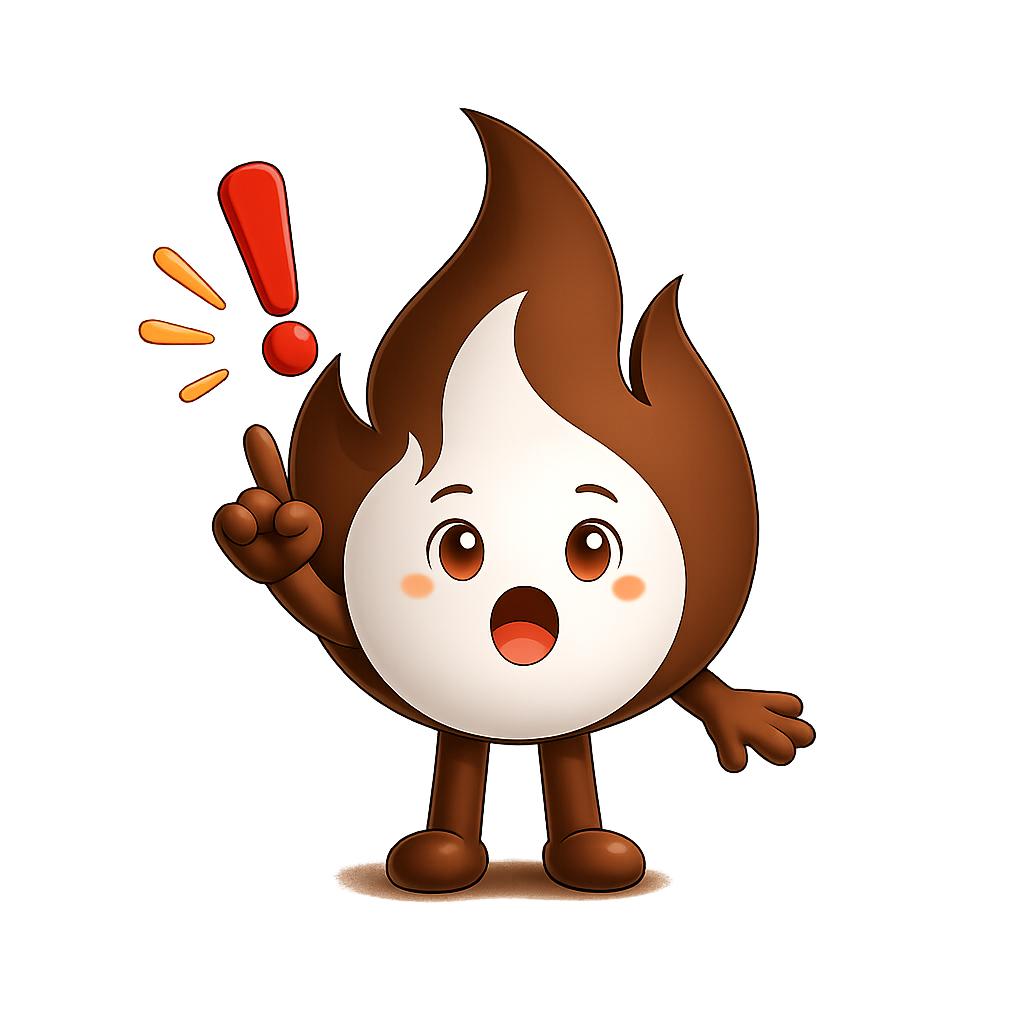
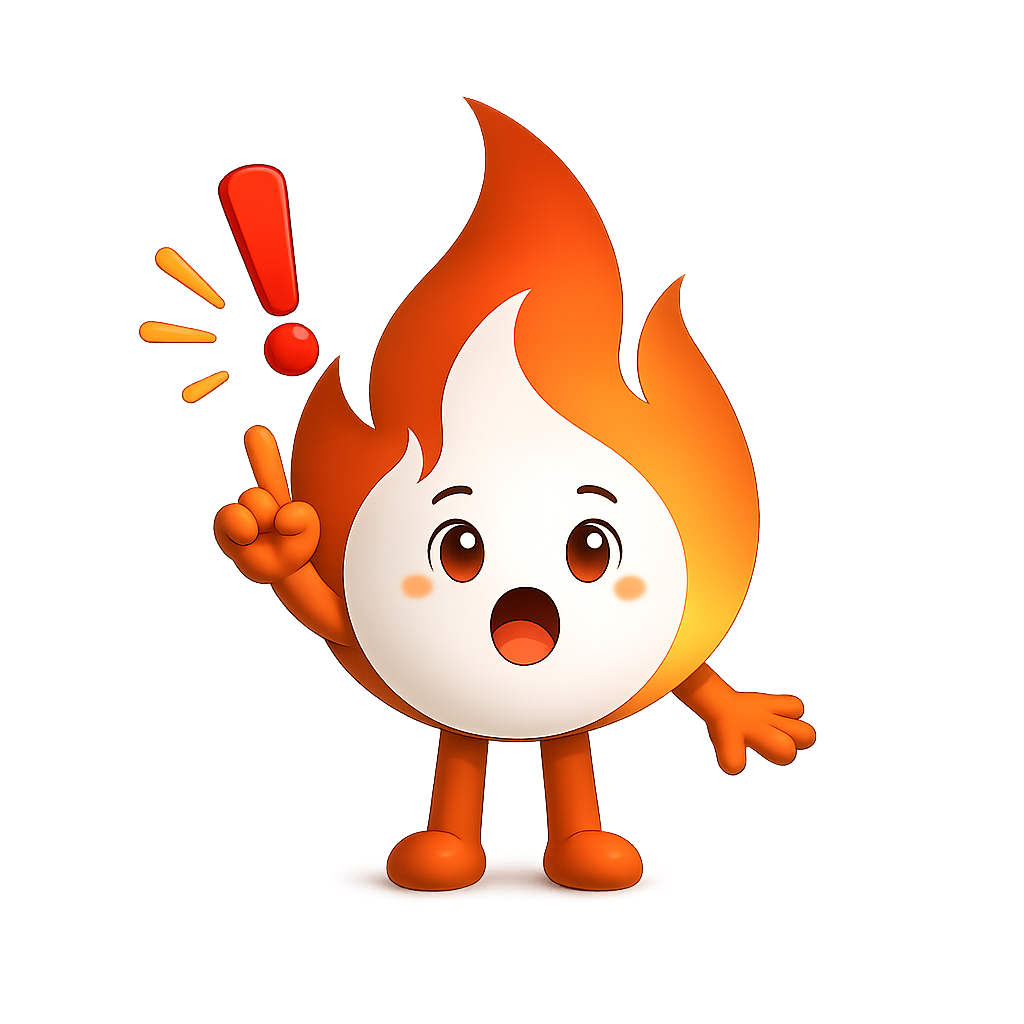
enhanced ui

Changed region(s): [[0.125, 0.0938, 0.8125, 0.9062], [0.5625, 0.4688, 0.625, 0.5938], [0.4688, 0.5938, 0.5625, 0.6562]]

diff --git a/components/feature/chat/ChatMessageMedia.tsx b/components/feature/chat/ChatMessageMedia.tsx
@@ -13,13 +13,12 @@ import { ChatImageLightbox } from "./ChatImageLightbox";
 
 type Props = {
   message: ChatMessage;
-  fromMe: boolean;
 };
 
 const MEDIA_WIDTH = 220;
 const MEDIA_HEIGHT = 160;
 
-export function ChatMessageMedia({ message, fromMe }: Props) {
+export function ChatMessageMedia({ message }: Props) {
   if (message.kind === "image" && message.mediaUrl) {
     return (
       <ChatImageMessage
@@ -38,7 +37,6 @@ export function ChatMessageMedia({ message, fromMe }: Props) {
       <ChatAudioMessage
         uri={message.mediaUrl}
         durationMs={message.mediaDurationMs}
-        fromMe={fromMe}
       />
     );
   }
@@ -151,11 +149,9 @@ function ChatVideoMessage({ uri, durationMs }: { uri: string; durationMs?: numbe
 function ChatAudioMessage({
   uri,
   durationMs,
-  fromMe,
 }: {
   uri: string;
   durationMs?: number;
-  fromMe: boolean;
 }) {
   const { colors } = useTheme();
   const soundRef = useRef<Audio.Sound | null>(null);
@@ -222,12 +218,12 @@ function ChatAudioMessage({
     >
       <View
         className="h-9 w-9 items-center justify-center rounded-full"
-        style={{ backgroundColor: fromMe ? "rgba(255,255,255,0.2)" : `${colors.primary}20` }}
+        style={{ backgroundColor: `${colors.primary}20` }}
       >
         <Ionicons
           name={playing ? "pause" : "play"}
           size={18}
-          color={fromMe ? colors.white : colors.primary}
+          color={colors.primary}
         />
       </View>
       <View className="flex-1 flex-row items-center gap-1">
@@ -238,15 +234,13 @@ function ChatAudioMessage({
             style={{
               width: 3,
               height: 8 + (i % 3) * 6,
-              backgroundColor: fromMe ? "rgba(255,255,255,0.85)" : colors.primary,
+              backgroundColor: colors.primary,
               opacity: playing ? 1 : 0.65,
             }}
           />
         ))}
       </View>
-      <Text
-        className={`text-xs font-medium ${fromMe ? "text-white/90" : "text-muted-foreground dark:text-d-muted"}`}
-      >
+      <Text className="text-xs font-medium text-muted-foreground dark:text-d-muted">
         {label}
       </Text>
     </Pressable>

diff --git a/components/feature/profile/ThemeSwitcher/ThemeSwitcher.tsx b/components/feature/profile/ThemeSwitcher/ThemeSwitcher.tsx
@@ -9,6 +9,7 @@ import Animated, {
 } from "react-native-reanimated";
 
 import { Card } from "@/components/ui/Card";
+import { BRAND_ORANGE, darkColors, lightColors } from "@/constants/theme";
 import { type ThemePreference, useTheme } from "@/context/ThemeContext";
 
 const OPTIONS: {
@@ -22,19 +23,34 @@ const OPTIONS: {
     id: "light",
     label: "Light",
     icon: "sunny",
-    preview: { bg: "#FFFFFF", card: "#F8F5F2", accent: "#795548", dot: "#2A1A12" },
+    preview: {
+      bg: lightColors.background,
+      card: lightColors.section,
+      accent: BRAND_ORANGE,
+      dot: lightColors.foreground,
+    },
   },
   {
     id: "dark",
     label: "Dark",
     icon: "moon",
-    preview: { bg: "#100D0B", card: "#1B1613", accent: "#E0825A", dot: "#F5EFE9" },
+    preview: {
+      bg: darkColors.background,
+      card: darkColors.section,
+      accent: BRAND_ORANGE,
+      dot: darkColors.foreground,
+    },
   },
   {
     id: "system",
     label: "Auto",
     icon: "phone-portrait",
-    preview: { bg: "#FFFFFF", card: "#100D0B", accent: "#E0825A", dot: "#795548" },
+    preview: {
+      bg: lightColors.background,
+      card: darkColors.background,
+      accent: BRAND_ORANGE,
+      dot: lightColors.foreground,
+    },
   },
 ];
 
@@ -111,7 +127,7 @@ function ThemeOption({ active, onPress, label, icon, preview, splitPreview }: Op
           {splitPreview ? (
             <View className="h-full w-full flex-row">
               <View style={{ flex: 1, backgroundColor: "#FFFFFF" }} />
-              <View style={{ flex: 1, backgroundColor: "#100D0B" }} />
+              <View style={{ flex: 1, backgroundColor: darkColors.background }} />
             </View>
           ) : (
             <View className="h-full w-full p-1.5">
@@ -137,7 +153,7 @@ function ThemeOption({ active, onPress, label, icon, preview, splitPreview }: Op
           <Ionicons
             name={icon}
             size={14}
-            color={active ? "#E0825A" : undefined}
+            color={active ? BRAND_ORANGE : undefined}
           />
           <Text
             className={[

diff --git a/components/feature/chat/MessageBubble.tsx b/components/feature/chat/MessageBubble.tsx
@@ -41,30 +41,24 @@ export function MessageBubble({
       <View
         className={[
           hasMedia ? "max-w-[82%] overflow-hidden p-1.5" : "max-w-[78%] px-4 py-2.5",
-          "rounded-3xl",
-          fromMe
-            ? "bg-primary rounded-tr-md"
-            : "bg-section rounded-tl-md dark:bg-d-surface",
+          "rounded-3xl bg-section dark:bg-d-surface",
+          fromMe ? "rounded-tr-md" : "rounded-tl-md",
         ].join(" ")}
       >
-        {hasMedia ? <ChatMessageMedia message={message} fromMe={fromMe} /> : null}
+        {hasMedia ? <ChatMessageMedia message={message} /> : null}
 
         {message.text ? (
           <Text
-            className={`text-base leading-5 ${
+            className={`text-base leading-5 text-foreground dark:text-d-text ${
               hasMedia ? "px-2 pb-1 pt-2" : ""
-            } ${fromMe ? "text-white" : "text-foreground dark:text-d-text"}`}
+            }`}
           >
             {message.text}
           </Text>
         ) : null}
 
         {!hasMedia && !message.text ? (
-          <Text
-            className={`text-base leading-5 ${
-              fromMe ? "text-white" : "text-foreground dark:text-d-text"
-            }`}
-          >
+          <Text className="text-base leading-5 text-foreground dark:text-d-text">
             {message.kind === "image"
               ? "📷 Photo"
               : message.kind === "video"
@@ -75,8 +69,8 @@ export function MessageBubble({
 
         {fromMe && status ? (
           <View className={`flex-row items-center justify-end gap-1 ${hasMedia ? "px-2 pb-1" : "mt-1"}`}>
-            <Text className="text-[10px] text-white/70">{time}</Text>
-            <MessageReadTicks status={status} onPrimary />
+            <Text className="text-[10px] text-muted-foreground dark:text-d-muted">{time}</Text>
+            <MessageReadTicks status={status} />
           </View>
         ) : null}
       </View>

diff --git a/tailwind.config.js b/tailwind.config.js
@@ -10,18 +10,17 @@ module.exports = {
     extend: {
       colors: {
         background: "#FFFFFF",
-        primary: "#795548",
-        "primary-dark": "#3E2723",
-        "primary-light": "#A1887F",
-        secondary: "#BC9C88",
-        foreground: "#2A1A12",
-        "muted-foreground": "#7A6E66",
-        /** Warm coral accent — replaces green for win / unlocked states */
-        accent: "#E0825A",
-        "accent-soft": "#F4D6C5",
+        primary: "#FF7A00",
+        "primary-dark": "#CC6200",
+        "primary-light": "#FF9933",
+        secondary: "#FFB366",
+        foreground: "#171717",
+        "muted-foreground": "#737373",
+        accent: "#FF7A00",
+        "accent-soft": "#FFF0E0",
         alert: "#DC3545",
-        section: "#F8F5F2",
-        border: "#EFE6DF",
+        section: "#FFFBF7",
+        border: "#FFE8D1",
         /** Dark palette (paired via `dark:` variant) */
         /** Craving tool card backgrounds (light) */
         "craving-breathing": "#E3F4EF",
@@ -29,15 +28,15 @@ module.exports = {
         "craving-cards": "#FBF0E6",
         "craving-videos": "#FCE8E8",
         d: {
-          bg: "#100D0B",
-          surface: "#1B1613",
-          elevated: "#2A211D",
-          text: "#F5EFE9",
-          muted: "#A89F97",
-          border: "#2E2622",
-          primary: "#D7B8A3",
-          accent: "#F09775",
-          "accent-soft": "#3A2A21",
+          bg: "#121212",
+          surface: "#1E1E1E",
+          elevated: "#262626",
+          text: "#F5F5F5",
+          muted: "#A3A3A3",
+          border: "#333333",
+          primary: "#FF7A00",
+          accent: "#FF7A00",
+          "accent-soft": "#261A0F",
           "craving-breathing": "#1A2E28",
           "craving-games": "#252033",
           "craving-cards": "#332A22",

diff --git a/constants/theme.ts b/constants/theme.ts
@@ -1,39 +1,39 @@
+/** Core brand orange — used for primary actions, links, and highlights. */
+export const BRAND_ORANGE = "#FF7A00";
+
 /**
  * Runtime color palettes for SVG / Ionicons / native props.
  * Tailwind `className` uses `dark:` variants separately (see tailwind.config.js).
- *
- * Brand palette is warm brown + cream. The `accent` slot is a coral terracotta
- * used for "win / unlocked / resisted" — intentionally NOT green.
  */
 export const lightColors = {
   background: "#FFFFFF",
-  primary: "#795548",
-  primaryDark: "#3E2723",
-  primaryLight: "#A1887F",
-  secondary: "#BC9C88",
-  foreground: "#2A1A12",
-  mutedForeground: "#7A6E66",
-  accent: "#E0825A",
-  accentSoft: "#F4D6C5",
+  primary: BRAND_ORANGE,
+  primaryDark: "#CC6200",
+  primaryLight: "#FF9933",
+  secondary: "#FFB366",
+  foreground: "#171717",
+  mutedForeground: "#737373",
+  accent: BRAND_ORANGE,
+  accentSoft: "#FFF0E0",
   alert: "#DC3545",
-  section: "#F8F5F2",
-  border: "#EFE6DF",
+  section: "#FFFBF7",
+  border: "#FFE8D1",
   white: "#FFFFFF",
 } as const;
 
 export const darkColors = {
-  background: "#100D0B",
-  primary: "#D7B8A3",
-  primaryDark: "#F5E9DF",
-  primaryLight: "#EDD9C8",
-  secondary: "#8D735F",
-  foreground: "#F5EFE9",
-  mutedForeground: "#A89F97",
-  accent: "#F09775",
-  accentSoft: "#3A2A21",
+  background: "#121212",
+  primary: BRAND_ORANGE,
+  primaryDark: "#FF9933",
+  primaryLight: "#FFB366",
+  secondary: "#CC6200",
+  foreground: "#F5F5F5",
+  mutedForeground: "#A3A3A3",
+  accent: BRAND_ORANGE,
+  accentSoft: "#261A0F",
   alert: "#EF5350",
-  section: "#1B1613",
-  border: "#2E2622",
+  section: "#1E1E1E",
+  border: "#333333",
   white: "#FFFFFF",
 } as const;
 

diff --git a/constants/memoryMatch.ts b/constants/memoryMatch.ts
@@ -7,12 +7,14 @@ export type MemorySymbol = {
   color: { light: string; dark: string };
 };
 
+import { BRAND_ORANGE } from "@/constants/theme";
+
 /** Six healthy, motivational symbols → six matching pairs (12 cards). */
 export const MEMORY_SYMBOLS: readonly MemorySymbol[] = [
   {
     id: "heart",
     icon: "heart",
-    color: { light: "#E0825A", dark: "#F09775" },
+    color: { light: BRAND_ORANGE, dark: "#FF9933" },
   },
   {
     id: "star",

diff --git a/components/feature/craving/games/drag-cigarettes/TrashBin/TrashBin.tsx b/components/feature/craving/games/drag-cigarettes/TrashBin/TrashBin.tsx
@@ -20,8 +20,8 @@ type Props = {
 };
 
 export function TrashBin({ active, pulseTick }: Props) {
-  const { resolved } = useTheme();
-  const accent = "#E0825A";
+  const { resolved, colors } = useTheme();
+  const accent = colors.primary;
 
   const scale = useSharedValue(1);
   const glow = useSharedValue(0);

diff --git a/constants/recoveryRings.ts b/constants/recoveryRings.ts
@@ -17,6 +17,6 @@ export const RECOVERY_RINGS: readonly RecoveryRingDefinition[] = [
     id: "heart",
     icon: { family: "ionicons", name: "heart" },
     label: "Heart Health",
-    accent: "alert",
+    accent: "primary",
   },
 ];
